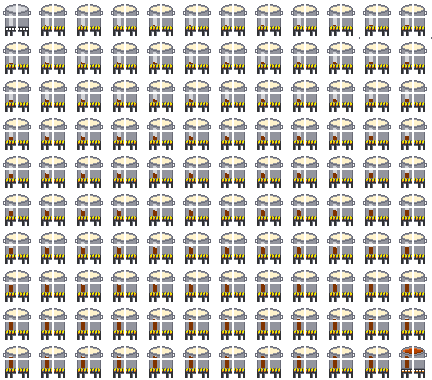
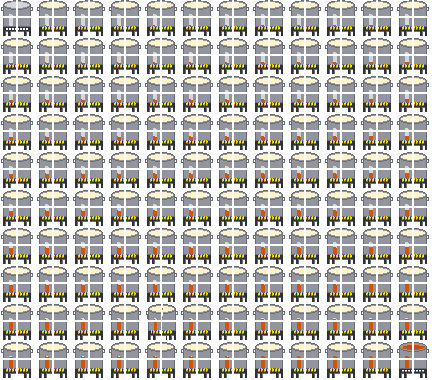
Made turkeyfryer (2 sap, 2 syrup); redeaw cooking pot; fix spelling; add some tooltips

diff --git a/Tiles/TurkeyFryerTile.cs b/Tiles/TurkeyFryerTile.cs
@@ -37,6 +37,7 @@ namespace PaincakeMod.Tiles
         const int WorkingAnimationFrames = (TurkeyFryerFinishedFrame - 2) / SyrupStylesPerFrame;
         const int DarkSyrupCookingTicks = 60 * 60; // 1 game hour; 1 minute real time
         const int TicksPerAnimationFrame = DarkSyrupCookingTicks / WorkingAnimationFrames;
+        const int TurkeyFryerBucketsRequired = 2;
 
         class Location : IEquatable<Location>
         {
@@ -44,13 +45,17 @@ namespace PaincakeMod.Tiles
             public int _Y { get; set; }
             public long _syrupFinishedTicks { get; set; }
             public long _syrupElapsedTicks { get; set; }
+            public int _bucketsPlaced { get; set; }
+            public int _syrupRemoved { get; set; }
 
-            public Location(int X, int Y, long syrupFinishedTicks)
+
+            public Location(int X, int Y, int bucketsPlaced, long syrupFinishedTicks)
             {
                 _X = X;
                 _Y = Y;
                 _syrupFinishedTicks = Main.GameUpdateCount + syrupFinishedTicks;
                 _syrupElapsedTicks = Main.GameUpdateCount;
+                _bucketsPlaced = bucketsPlaced;
             }
             public override bool Equals(object obj)
             {
@@ -73,6 +78,39 @@ namespace PaincakeMod.Tiles
             {
                 return (X - _X < 2 && X - _X >= -2
                         && Y - _Y < 2 && Y - _Y >= -2);
+            }
+
+            public int getBucketsNeeded()
+            {
+                return TurkeyFryerBucketsRequired - _bucketsPlaced;
+            }
+
+            public void addBucketToPot()
+            {
+                if (getBucketsNeeded() > 0)
+                    _bucketsPlaced++;
+            }
+
+            public int getSyrupFromPot()
+            {
+                if (getNumSyrupLeftInPot() > 0)
+                {
+                    _syrupRemoved++;
+                    return 1;
+                }
+                return 0;
+            }
+
+            public int getNumSyrupLeftInPot()
+            {
+                if (getSyrupTicksLeft() > 0 || getBucketsNeeded() > 0)
+                {
+                    return -1;
+                }
+                else
+                {
+                    return TurkeyFryerBucketsRequired - _syrupRemoved;
+                }
             }
 
             public long getSyrupTicksLeft()
@@ -120,7 +158,6 @@ namespace PaincakeMod.Tiles
             if (!Main.dedServ)
             {
                 flameTexture = ModContent.Request<Texture2D>(Texture + "_Flame");
-
             }
         }
 
@@ -134,11 +171,22 @@ namespace PaincakeMod.Tiles
                 {
                     if (loc.Equals(i, j))
                     {
+                        if (loc.getBucketsNeeded() > 0)
+                        {
+                            return PaincakePotStatus.NeedsMore;
+                        }
                         if (loc.getSyrupTicksLeft() > 0)
                         {
                             return PaincakePotStatus.Processing;
                         }
-                        return PaincakePotStatus.Finished;
+                        if (loc.getNumSyrupLeftInPot() == TurkeyFryerBucketsRequired)
+                        {
+                            return PaincakePotStatus.Finished;
+                        }
+                        else if (loc.getNumSyrupLeftInPot() > 0)
+                        {
+                            return PaincakePotStatus.CollectMore;
+                        }
                     }
                 }
             }
@@ -161,7 +209,7 @@ namespace PaincakeMod.Tiles
         }
 
 
-        public bool StartPotWorking(int i, int j)
+        public bool StartWorking(int i, int j)
         {
             if (PotLocations.Count > 0)
             {
@@ -169,11 +217,16 @@ namespace PaincakeMod.Tiles
                 {
                     if (loc.Equals(i, j))
                     {
+                        if (loc.getBucketsNeeded() > 0)
+                        {
+                            loc.addBucketToPot();
+                            return true;
+                        }
                         return false;
                     }
                 }
             }
-            PotLocations.Add(new Location(i, j, DarkSyrupCookingTicks));
+            PotLocations.Add(new Location(i, j, 1, DarkSyrupCookingTicks));
             return true;
         }
 
@@ -187,8 +240,19 @@ namespace PaincakeMod.Tiles
                     {
                         if (loc.getSyrupTicksLeft() <= 0)
                         {
-                            Item.NewItem(new EntitySource_TileBreak(i, j), i * 16, j * 16, 42, 48, ModContent.ItemType<DarkMapleSyrup>(), 1);
-                            PotLocations.Remove(new Location(i, j, 0));
+                            int count = loc.getSyrupFromPot();
+                            Mod.Logger.InfoFormat("count left in pot {0}", count);
+                            if (count > 0)
+                            {
+                                Mod.Logger.Info("created DarkSyrup");
+                                Item.NewItem(new EntitySource_TileBreak(i, j), i * 16, j * 16, 42, 48, ModContent.ItemType<DarkMapleSyrup>(), 1);
+                            }
+                            if (loc.getNumSyrupLeftInPot() <= 0)
+                            {
+                                Mod.Logger.Info("removing pot location");
+                                PotLocations.Remove(new Location(i, j, 0, 0));
+                            }
+
                             return true;
                         }
                         break;
@@ -223,7 +287,7 @@ namespace PaincakeMod.Tiles
             }
             else
             {
-                StartPotWorking(i, j);
+                StartWorking(i, j);
                 return true;
             }
         }
@@ -240,6 +304,7 @@ namespace PaincakeMod.Tiles
             switch (GetPotStatusAtLocation(i, j))
             {
                 case PaincakePotStatus.Empty:
+                case PaincakePotStatus.NeedsMore:
                     TileNumber = TurkeyFryerEmptyFrame;
                     break;
                 case PaincakePotStatus.Processing:
@@ -249,10 +314,11 @@ namespace PaincakeMod.Tiles
                     TileNumber = Math.Min(TileNumber, TurkeyFryerFinishedFrame - 1);
                     break;
                 case PaincakePotStatus.Finished:
+                case PaincakePotStatus.CollectMore:
                     TileNumber = TurkeyFryerFinishedFrame;
                     break;
                 default:
-                    TileNumber = TurkeyFryerFinishedFrame; 
+                    TileNumber = TurkeyFryerEmptyFrame; 
                     break;
             }
 
@@ -273,14 +339,14 @@ namespace PaincakeMod.Tiles
             if (!Lighting.UpdateEveryFrame || new FastRandom(Main.TileFrameSeed).WithModifier(i, j).Next(4) == 0)
             {
                 Tile tile = Main.tile[i, j];
-                int dustChance = (PotStatus == PaincakePotStatus.Processing) ? 2: 5;
+                int dustChance = (PotStatus == PaincakePotStatus.Processing) ? 1: 5;
                 // Only emit dust from the top tiles, and only if toggled on. This logic limits dust spawning under different conditions.
                 if (tile.TileFrameY == 0 && Main.rand.NextBool(dustChance) && ((Main.drawToScreen && Main.rand.NextBool(dustChance + 1)) || !Main.drawToScreen))
                 {
                     Dust dust = Dust.NewDustDirect(new Vector2(i * 16 + 2, j * 16 - 4), 4, 8, DustID.Cloud, 0f, 0f, 100);
 
                     dust.position.X += Main.rand.Next(-4, 4);
-                    dust.position.Y += Main.rand.Next(2, 10);
+                    dust.position.Y += Main.rand.Next(-3, 6);
                     dust.alpha += Main.rand.Next(100);
                     dust.velocity *= 0.2f;
                     dust.velocity.Y -= 0.5f + Main.rand.Next(10) * 0.1f;
@@ -335,7 +401,7 @@ namespace PaincakeMod.Tiles
 
         public override void KillMultiTile(int i, int j, int frameX, int frameY)
         {
-            Location loc = new Location(i, j, 0);
+            Location loc = new Location(i, j, 0, 0);
             PotLocations.Remove(loc);
             base.KillMultiTile(i, j, frameX, frameY);
         }

diff --git a/Tiles/SyrupCookingPotTile.cs b/Tiles/SyrupCookingPotTile.cs
@@ -30,11 +30,11 @@ namespace PaincakeMod.Tiles
 {
     class SyrupCookingPotTile : ModTile
     {
-        const int SyrupCookingPotFrameCount = 120;
+        const int SyrupCookingPotFrameCount = 78;
         const int SyrupCookingPotEmptyFrame = 0;
         const int SyrupCookingPotFinishedFrame = SyrupCookingPotFrameCount - 1;
-        const int SyrupStylesPerFrame = 3;
-        const int WorkingAnimationFrames = (SyrupCookingPotFinishedFrame - 2) / SyrupStylesPerFrame;
+        const int SyrupStylesPerFrame = 2;
+        const int WorkingAnimationFrames = (SyrupCookingPotFinishedFrame - 1) / SyrupStylesPerFrame;
         const int ExtraDarkSyrupCookingTicks = 60 * 60; // 1 game hour; 1 minute real time
         const int TicksPerAnimationFrame = ExtraDarkSyrupCookingTicks / WorkingAnimationFrames;
 
@@ -107,7 +107,7 @@ namespace PaincakeMod.Tiles
             TileObjectData.newTile.CoordinateWidth = 16;
             TileObjectData.newTile.CoordinatePadding = 2;
             TileObjectData.newTile.StyleHorizontal = true;
-            TileObjectData.newTile.StyleWrapLimit = 12;
+            TileObjectData.newTile.StyleWrapLimit = 10;
             TileObjectData.addTile(Type);
 
             AddMapEntry(new Color(200, 200, 200), Language.GetText("MapObject.SyrupCookingPot"));
@@ -256,8 +256,8 @@ namespace PaincakeMod.Tiles
                     break;
             }
 
-			frameXOffset = (TileNumber % 12) * 36;
-			frameYOffset = (TileNumber / 12) * 38;
+			frameXOffset = (TileNumber % 10) * 36;
+			frameYOffset = (TileNumber / 10) * 38;
 
             //base.AnimateIndividualTile(type, i, j, ref frameXOffset, ref frameYOffset);
         }
@@ -280,7 +280,7 @@ namespace PaincakeMod.Tiles
                     Dust dust = Dust.NewDustDirect(new Vector2(i * 16 + 2, j * 16 - 4), 4, 8, DustID.Cloud, 0f, 0f, 100);
 
                     dust.position.X += Main.rand.Next(-4, 4);
-                    dust.position.Y += Main.rand.Next(2, 10);
+                    dust.position.Y += Main.rand.Next(4, 12);
                     dust.alpha += Main.rand.Next(100);
                     dust.velocity *= 0.2f;
                     dust.velocity.Y -= 0.5f + Main.rand.Next(10) * 0.1f;

diff --git a/Items/MapleBottle.cs b/Items/MapleBottle.cs
@@ -48,6 +48,10 @@ namespace PaincakeMod.Items
             {
                 return true;
             }
+            if (Framing.GetTileSafely(MouseWorldTile.X, MouseWorldTile.Y).TileType == ModContent.TileType<TurkeyFryerTile>())
+            {
+                return true;
+            }
             return false;
         }
 
@@ -60,6 +64,10 @@ namespace PaincakeMod.Items
         {
             Point MouseWorldTile = Main.MouseWorld.ToTileCoordinates();
             if (Framing.GetTileSafely(MouseWorldTile.X, MouseWorldTile.Y).TileType == ModContent.TileType<SyrupCookingPotTile>())
+            {
+                return true;
+            }
+            if (Framing.GetTileSafely(MouseWorldTile.X, MouseWorldTile.Y).TileType == ModContent.TileType<TurkeyFryerTile>())
             {
                 return true;
             }
@@ -83,6 +91,25 @@ namespace PaincakeMod.Items
                     return false;
                 }
                 bool didCollect = SyrupPot.CollectSyrup(MouseWorldTile.X, MouseWorldTile.Y);
+
+                if (didCollect)
+                {
+                    return true;
+                }
+                return false;
+            }
+            if (Framing.GetTileSafely(MouseWorldTile.X, MouseWorldTile.Y).TileType == ModContent.TileType<TurkeyFryerTile>())
+            {
+                TurkeyFryerTile TurkeyFryer = ModContent.GetInstance<TurkeyFryerTile>();
+
+                PaincakePotStatus Status = TurkeyFryer.GetPotStatusAtLocation(MouseWorldTile.X, MouseWorldTile.Y);
+                // checked the state of the syrup pot (Working or Ready)
+                // if working return false;
+                if (Status != PaincakePotStatus.Finished && Status != PaincakePotStatus.CollectMore)
+                {
+                    return false;
+                }
+                bool didCollect = TurkeyFryer.CollectSyrup(MouseWorldTile.X, MouseWorldTile.Y);
 
                 if (didCollect)
                 {

diff --git a/Items/SapBucket.cs b/Items/SapBucket.cs
@@ -47,6 +47,10 @@ namespace PaincakeMod.Items
             {
                 return true;
             }
+            if (Framing.GetTileSafely(MouseWorldTile.X, MouseWorldTile.Y).TileType == ModContent.TileType<TurkeyFryerTile>())
+            {
+                return true;
+            }
             return false;
         }
 
@@ -59,6 +63,10 @@ namespace PaincakeMod.Items
         {
             Point MouseWorldTile = Main.MouseWorld.ToTileCoordinates();
             if (Framing.GetTileSafely(MouseWorldTile.X, MouseWorldTile.Y).TileType == ModContent.TileType<SyrupCookingPotTile>())
+            {
+                return true;
+            }
+            if (Framing.GetTileSafely(MouseWorldTile.X, MouseWorldTile.Y).TileType == ModContent.TileType<TurkeyFryerTile>())
             {
                 return true;
             }
@@ -89,6 +97,25 @@ namespace PaincakeMod.Items
                 }
                 return false;
 			}
+            if (Framing.GetTileSafely(MouseWorldTile.X, MouseWorldTile.Y).TileType == ModContent.TileType<TurkeyFryerTile>())
+            {
+                TurkeyFryerTile TurkeyFryer = ModContent.GetInstance<TurkeyFryerTile>();
+                Mod.Logger.Info("turkeyfryertyle");
+                PaincakePotStatus Status = TurkeyFryer.GetPotStatusAtLocation(MouseWorldTile.X, MouseWorldTile.Y);
+                // checked the state of the syrup pot (Working or Ready)
+                // if working return false;
+                if (Status != PaincakePotStatus.Empty && Status != PaincakePotStatus.NeedsMore)
+                {
+                    return false;
+                }
+                bool didStart = TurkeyFryer.StartWorking(MouseWorldTile.X, MouseWorldTile.Y);
+
+                if (didStart)
+                {
+                    return true;
+                }
+                return false;
+            }
             return false;
         }
     }

diff --git a/Buffs/GoldenMapleBuff.cs b/Buffs/GoldenMapleBuff.cs
@@ -9,7 +9,7 @@ using Terraria.Localization;
 
 namespace PaincakeMod.Buffs
 {
-    public class GoldenkMapleBuff : ModBuff
+    public class GoldenMapleBuff : ModBuff
     {
         public static readonly float GoldenDamageBouns = 20;
         public static readonly int GoldenCritBouns = 20;

diff --git a/Items/TurkeyFryer.cs b/Items/TurkeyFryer.cs
@@ -24,8 +24,8 @@ namespace PaincakeMod.Items
 
 		public override void SetDefaults()
 		{
-			Item.width = 26;
-			Item.height = 30;
+			Item.width = 30;
+			Item.height = 34;
 			Item.value = 1200;
 			Item.useAnimation = 15;
 			Item.useTime = 10;

diff --git a/Constants/PaincakeConstants.cs b/Constants/PaincakeConstants.cs
@@ -40,6 +40,7 @@ namespace PaincakeMod.Constants
 		Empty = 0,
 		NeedsMore = 1,
 		Processing = 2,
-		Finished = 3
+		Finished = 3,
+		CollectMore = 4
 	}
 }
